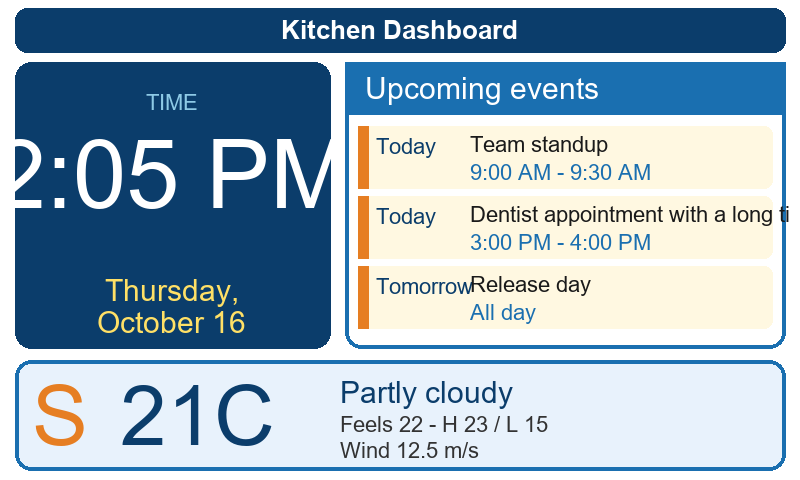
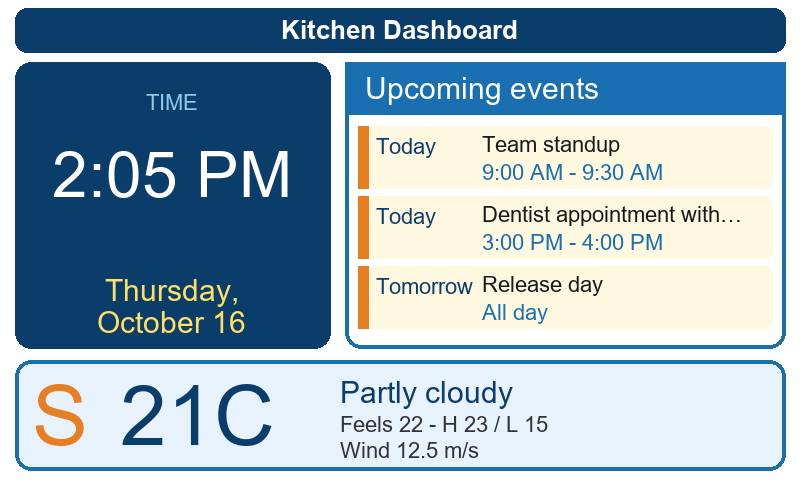
Fix text overflow: contained clock/events/weather, truncate event titles to max words

diff --git a/inkypi_multiview/render/dashboard.css b/inkypi_multiview/render/dashboard.css
@@ -39,6 +39,7 @@
   flex-direction: row;
   flex: 1 1 auto;
   min-height: 0;
+  min-width: 0;
   height: auto;
   gap: 2dvw;
   align-items: stretch;
@@ -46,6 +47,7 @@
 
 .clock-panel {
   width: 42%;
+  min-width: 0;
   height: auto;
   min-height: fit-content;
   align-self: stretch;
@@ -59,6 +61,7 @@
   border-radius: 1.5vw;
   padding: 2dvh 1.5dvw;
   container-type: size;
+  overflow: hidden;
   overflow-wrap: break-word;
   word-break: break-word;
 }
@@ -71,13 +74,15 @@
 }
 
 .clock-time {
-  font-size: 16cqmin;
+  font-size: min(8.5dvw, 15dvh);
   font-weight: bold;
   line-height: 115%;
   color: #fff;
   height: auto;
-  white-space: normal;
-  overflow-wrap: break-word;
+  max-width: 100%;
+  white-space: nowrap;
+  overflow: hidden;
+  text-overflow: ellipsis;
   text-align: center;
 }
 
@@ -90,18 +95,21 @@
 }
 
 .clock-date {
-  font-size: 7cqmin;
+  font-size: min(2.8dvw, 4.5dvh);
   text-align: center;
   line-height: 130%;
   margin-top: 0.8dvh;
   color: var(--yellow);
   height: auto;
+  max-width: 100%;
   white-space: normal;
+  overflow: hidden;
   overflow-wrap: break-word;
 }
 
 .events-panel {
   width: 58%;
+  min-width: 0;
   height: auto;
   min-height: fit-content;
   align-self: stretch;
@@ -143,18 +151,21 @@
   gap: 1dvw;
   align-items: flex-start;
   min-width: 0;
+  width: 100%;
+  max-width: 100%;
   height: auto;
   background: #FFF8E1;
   border-left: 0.8vw solid var(--amber);
   border-radius: 0.8vw;
   padding: 0.8dvh 1dvw;
+  overflow: hidden;
 }
 
 .event-day {
-  flex-shrink: 0;
-  width: auto;
+  flex: 0 0 30%;
+  width: 30%;
+  max-width: 30%;
   min-width: 0;
-  max-width: 32%;
   font-weight: bold;
   font-size: min(2.6dvh, 2.6vw);
   line-height: 130%;
@@ -164,14 +175,17 @@
   border-radius: 0.8vw;
   padding: 0.2dvh 0.8dvw;
   height: fit-content;
-  white-space: normal;
-  overflow-wrap: break-word;
+  white-space: nowrap;
+  overflow: hidden;
+  text-overflow: ellipsis;
 }
 
 .event-main {
-  flex: 1;
+  flex: 1 1 auto;
   min-width: 0;
+  max-width: 70%;
   height: auto;
+  overflow: hidden;
 }
 
 .event-title {
@@ -180,10 +194,10 @@
   line-height: 125%;
   color: var(--ink);
   height: auto;
-  white-space: normal;
-  overflow: visible;
-  overflow-wrap: break-word;
-  word-break: break-word;
+  max-width: 100%;
+  white-space: nowrap;
+  overflow: hidden;
+  text-overflow: ellipsis;
 }
 
 .event-time {
@@ -192,8 +206,10 @@
   font-weight: bold;
   line-height: 125%;
   height: auto;
-  white-space: normal;
-  overflow-wrap: break-word;
+  max-width: 100%;
+  white-space: nowrap;
+  overflow: hidden;
+  text-overflow: ellipsis;
 }
 
 .events-empty {
@@ -213,6 +229,7 @@
   height: auto;
   min-height: 90px;
   min-height: fit-content;
+  min-width: 0;
   flex: 0 0 auto;
   display: flex;
   flex-direction: row;
@@ -241,9 +258,11 @@
   font-weight: bold;
   line-height: 110%;
   height: auto;
+  max-width: 100%;
   color: var(--navy);
-  white-space: normal;
-  overflow-wrap: break-word;
+  white-space: nowrap;
+  overflow: hidden;
+  text-overflow: ellipsis;
 }
 
 .wx-unit {
@@ -259,8 +278,10 @@
   flex-direction: column;
   justify-content: center;
   min-width: 0;
+  max-width: 100%;
   flex: 1;
   height: auto;
+  overflow: hidden;
 }
 
 .wx-desc {
@@ -268,29 +289,29 @@
   font-weight: bold;
   line-height: 125%;
   height: auto;
+  max-width: 100%;
   color: var(--navy);
-  white-space: normal;
-  overflow: visible;
-  overflow-wrap: break-word;
-  word-break: break-word;
+  white-space: nowrap;
+  overflow: hidden;
+  text-overflow: ellipsis;
 }
 
 .wx-sub {
   font-size: 5.5cqmin;
   line-height: 130%;
   height: auto;
+  max-width: 100%;
   color: #333;
-  white-space: normal;
-  overflow: visible;
-  overflow-wrap: break-word;
-  word-break: break-word;
+  white-space: nowrap;
+  overflow: hidden;
+  text-overflow: ellipsis;
 }
 
 /* Portrait: stack clock on top, events middle */
 @media (max-aspect-ratio: 1) {
   .dash-top { flex-direction: column; }
   .clock-panel { width: 100%; padding: 1.5dvh 2dvw; }
-  .clock-time { font-size: 12cqmin; }
+  .clock-time { font-size: min(10dvw, 8dvh); }
   .events-panel { width: 100%; flex: 1 1 auto; }
   .weather-strip { min-height: 0; }
 }

diff --git a/inkypi_multiview/settings.html b/inkypi_multiview/settings.html
@@ -36,6 +36,8 @@
   <input type="number" id="maxEvents" name="maxEvents" class="form-input" min="1" max="10" placeholder="5">
   <label for="lookaheadDays" class="form-label">Look ahead (days, 1-30):</label>
   <input type="number" id="lookaheadDays" name="lookaheadDays" class="form-input" min="1" max="30" placeholder="14">
+  <label for="titleWords" class="form-label">Max words per event title (1-10):</label>
+  <input type="number" id="titleWords" name="titleWords" class="form-input" min="1" max="10" placeholder="5">
 </div>
 
 <div class="form-group">
@@ -146,6 +148,7 @@
       document.getElementById('units').value = pluginSettings.units || 'metric';
       document.getElementById('maxEvents').value = pluginSettings.maxEvents || '5';
       document.getElementById('lookaheadDays').value = pluginSettings.lookaheadDays || '14';
+      document.getElementById('titleWords').value = pluginSettings.titleWords || '5';
       const ss = pluginSettings.showSeconds === 'true' || pluginSettings.showSeconds === true;
       document.getElementById('showSeconds').checked = ss;
       document.getElementById('showSeconds').value = ss ? 'true' : 'false';
@@ -162,6 +165,7 @@
       document.getElementById('units').value = 'metric';
       document.getElementById('maxEvents').value = '5';
       document.getElementById('lookaheadDays').value = '14';
+      document.getElementById('titleWords').value = '5';
     }
     calendars.forEach((url) => addCalendarInput(url || ''));
 

diff --git a/inkypi_multiview/inkypi_multiview.py b/inkypi_multiview/inkypi_multiview.py
@@ -108,6 +108,12 @@ class InkypiMultiview(BasePlugin):
             lookahead_days = 14
         lookahead_days = max(1, min(30, lookahead_days))
 
+        try:
+            title_words = int(settings.get("titleWords") or 5)
+        except (ValueError, TypeError):
+            title_words = 5
+        title_words = max(1, min(10, title_words))
+
         show_seconds = str(settings.get("showSeconds") or "false").lower() == "true"
         dashboard_title = (settings.get("dashboardTitle") or "").strip()
 
@@ -151,7 +157,7 @@ class InkypiMultiview(BasePlugin):
         events = []
         if urls:
             try:
-                events = self.fetch_upcoming_events(urls, tz, now, lookahead_days, max_events, time_format)
+                events = self.fetch_upcoming_events(urls, tz, now, lookahead_days, max_events, time_format, title_words)
             except RuntimeError:
                 raise
             except Exception as e:
@@ -277,7 +283,7 @@ class InkypiMultiview(BasePlugin):
         return "\u2191"
 
     # ---------- calendar ----------
-    def fetch_upcoming_events(self, urls, tz, now, lookahead_days, max_events, time_format):
+    def fetch_upcoming_events(self, urls, tz, now, lookahead_days, max_events, time_format, title_words=5):
         start_range = now - timedelta(minutes=5)
         # strip tz for naive comparison? recurring_ical_events handles aware; use aware start/end
         end_range = now + timedelta(days=lookahead_days)
@@ -360,11 +366,22 @@ class InkypiMultiview(BasePlugin):
                     if e["end"].date() == d:
                         time_label += " - " + self.format_time(e["end"], time_format)
             out.append({
-                "title": e["title"],
+                "title": self.shorten_title(e["title"], title_words),
                 "day_label": day_label,
                 "time_label": time_label,
             })
         return out
+
+    @staticmethod
+    def shorten_title(title, max_words=5, max_chars=32):
+        """Collapse whitespace and trim to max_words / max_chars with ellipsis."""
+        text = " ".join(str(title or "").split())
+        words = text.split(" ")
+        if len(words) > max_words:
+            text = " ".join(words[:max_words]) + "…"
+        if len(text) > max_chars:
+            text = text[: max_chars - 1].rstrip() + "…"
+        return text or "Untitled"
 
     def fetch_calendar(self, calendar_url):
         if calendar_url.startswith("webcal://"):

diff --git a/README.md b/README.md
@@ -27,6 +27,7 @@ In the plugin settings:
 - **Units** — `metric` (°C), `imperial` (°F), `standard` (K).
 - **Calendars** — one or more public iCal URLs (`.ics`). Google Calendar: Settings → Integrate calendar → Public address in iCal format. `webcal://` URLs are accepted.
 - **Max events (1-10)** — default 5.
+- **Max words per event title (1-10)** — default 5. Long titles are cut with … (max ~32 chars) so they can't push other columns out of bounds.
 - **Look ahead days (1-30)** — default 14.
 - **Show seconds** — adds `:SS` to the digital clock.
 
